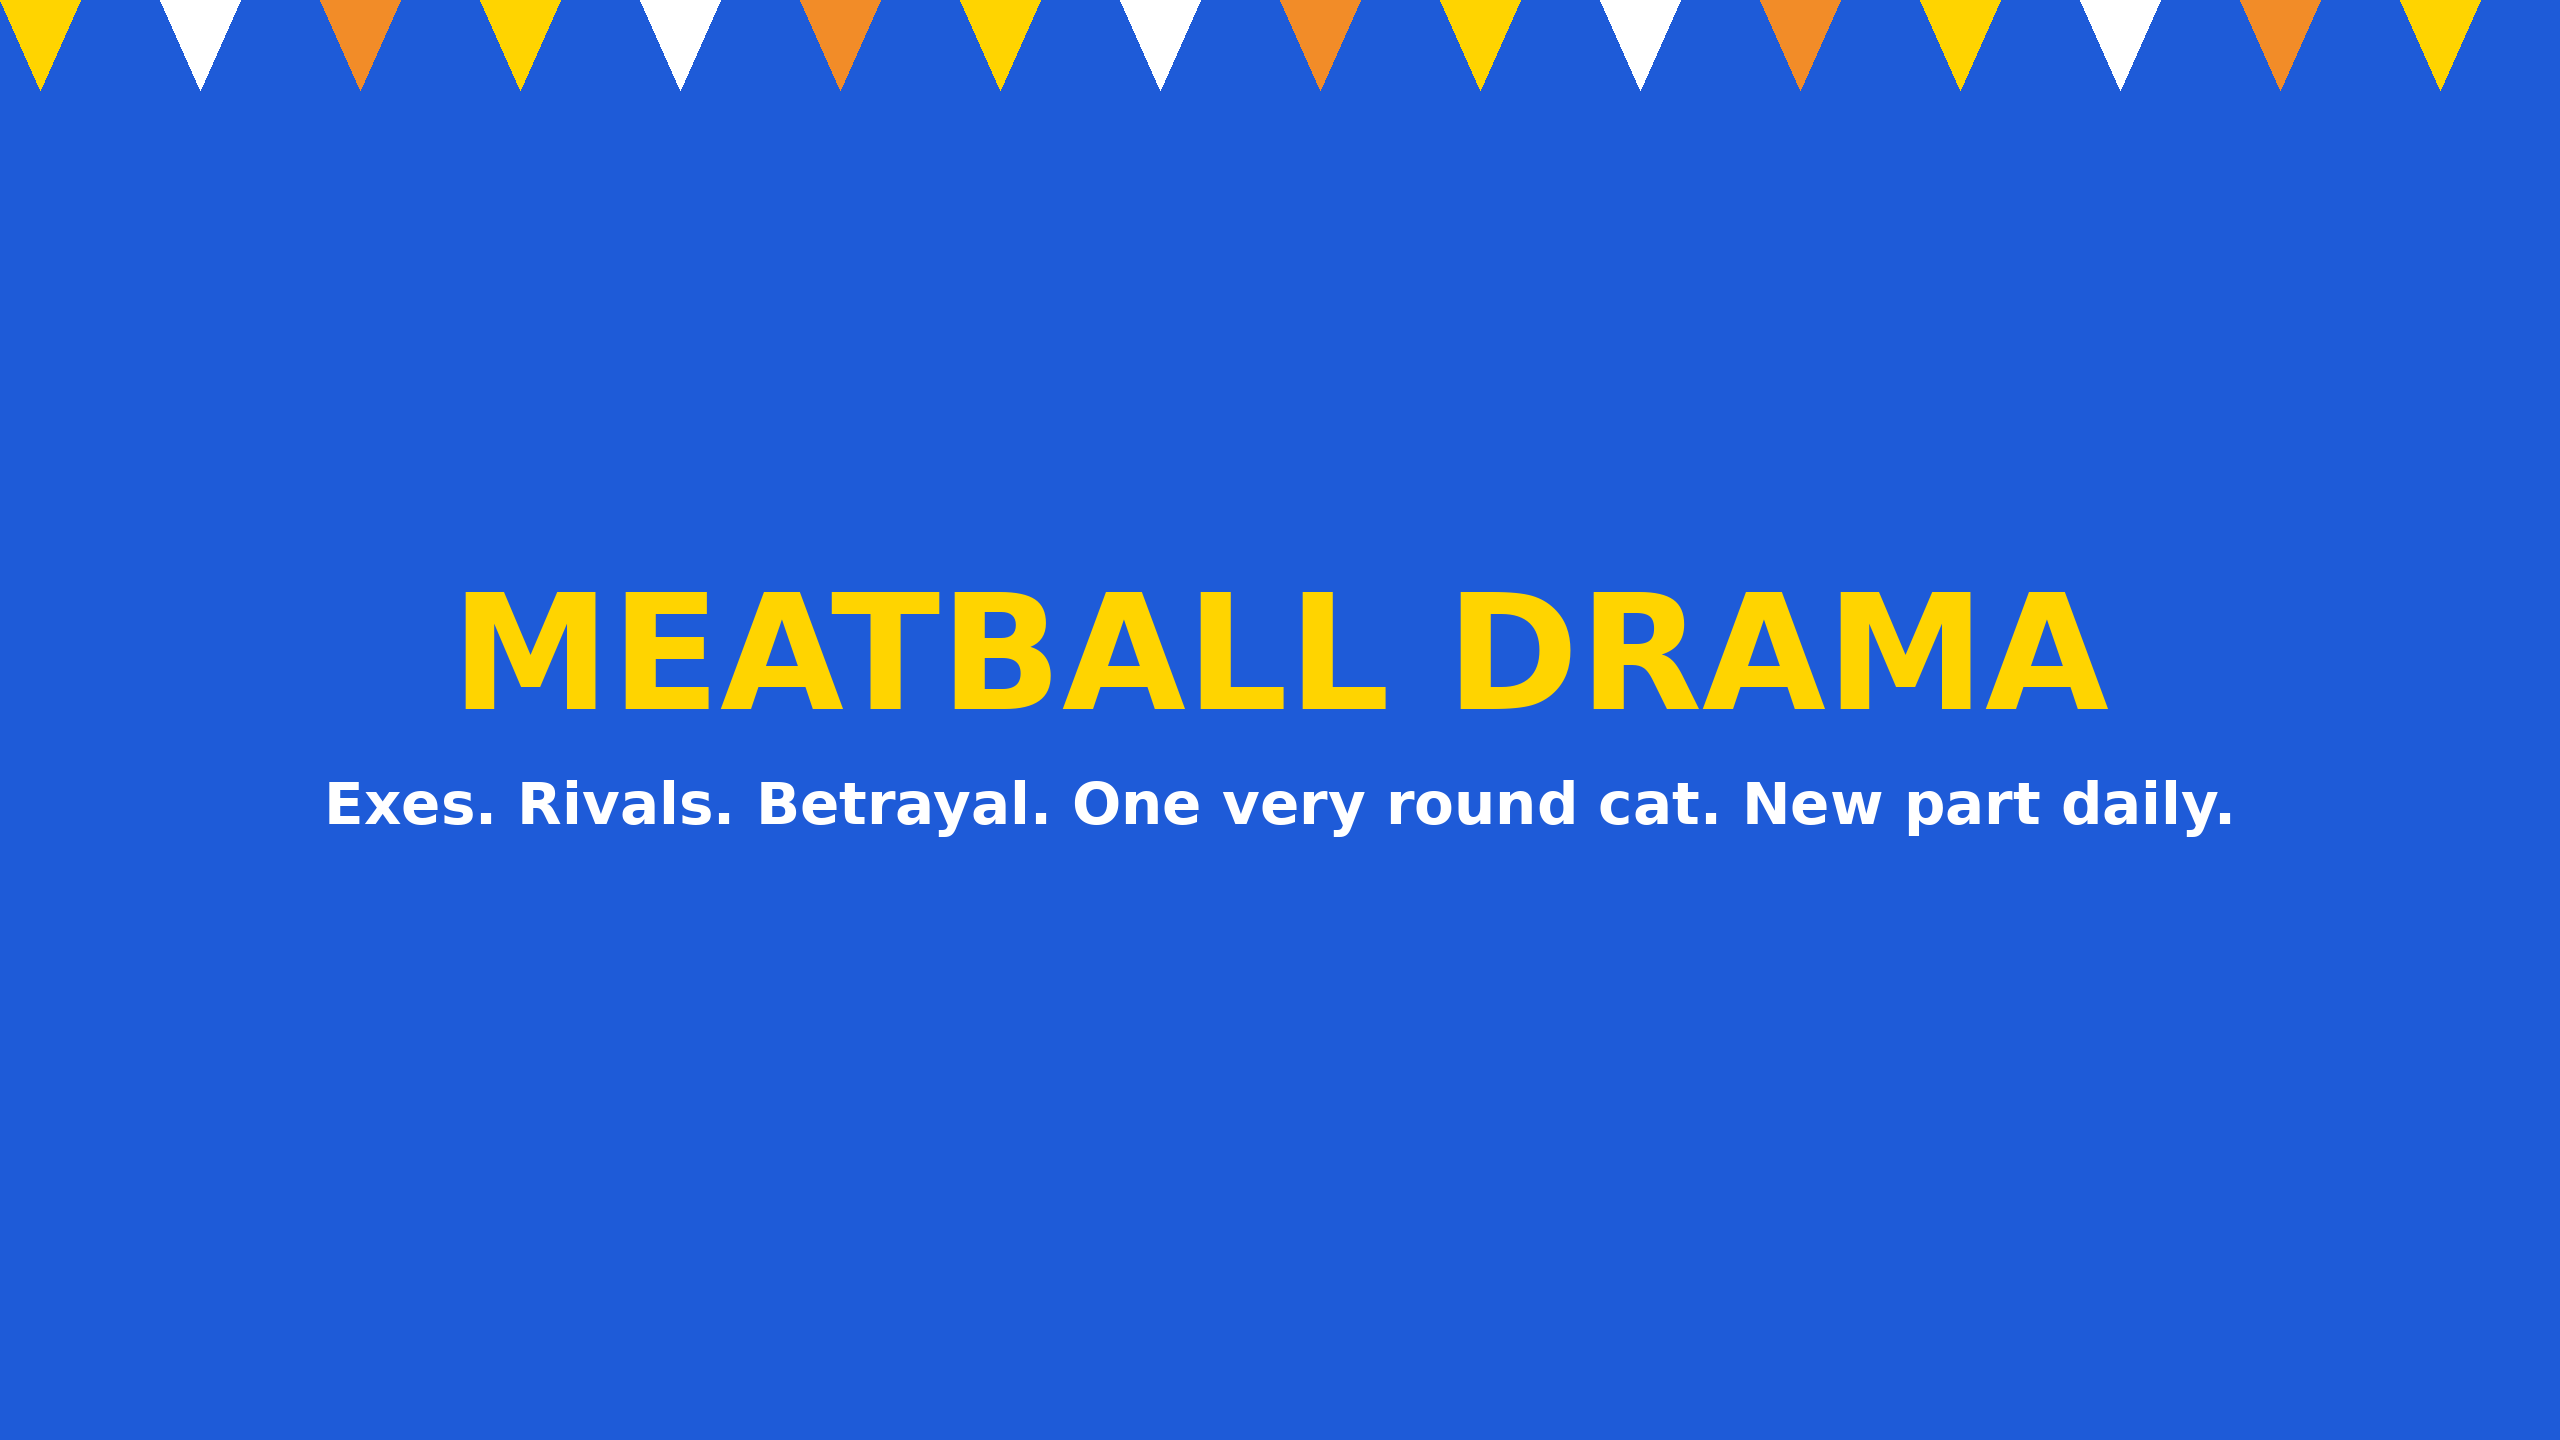
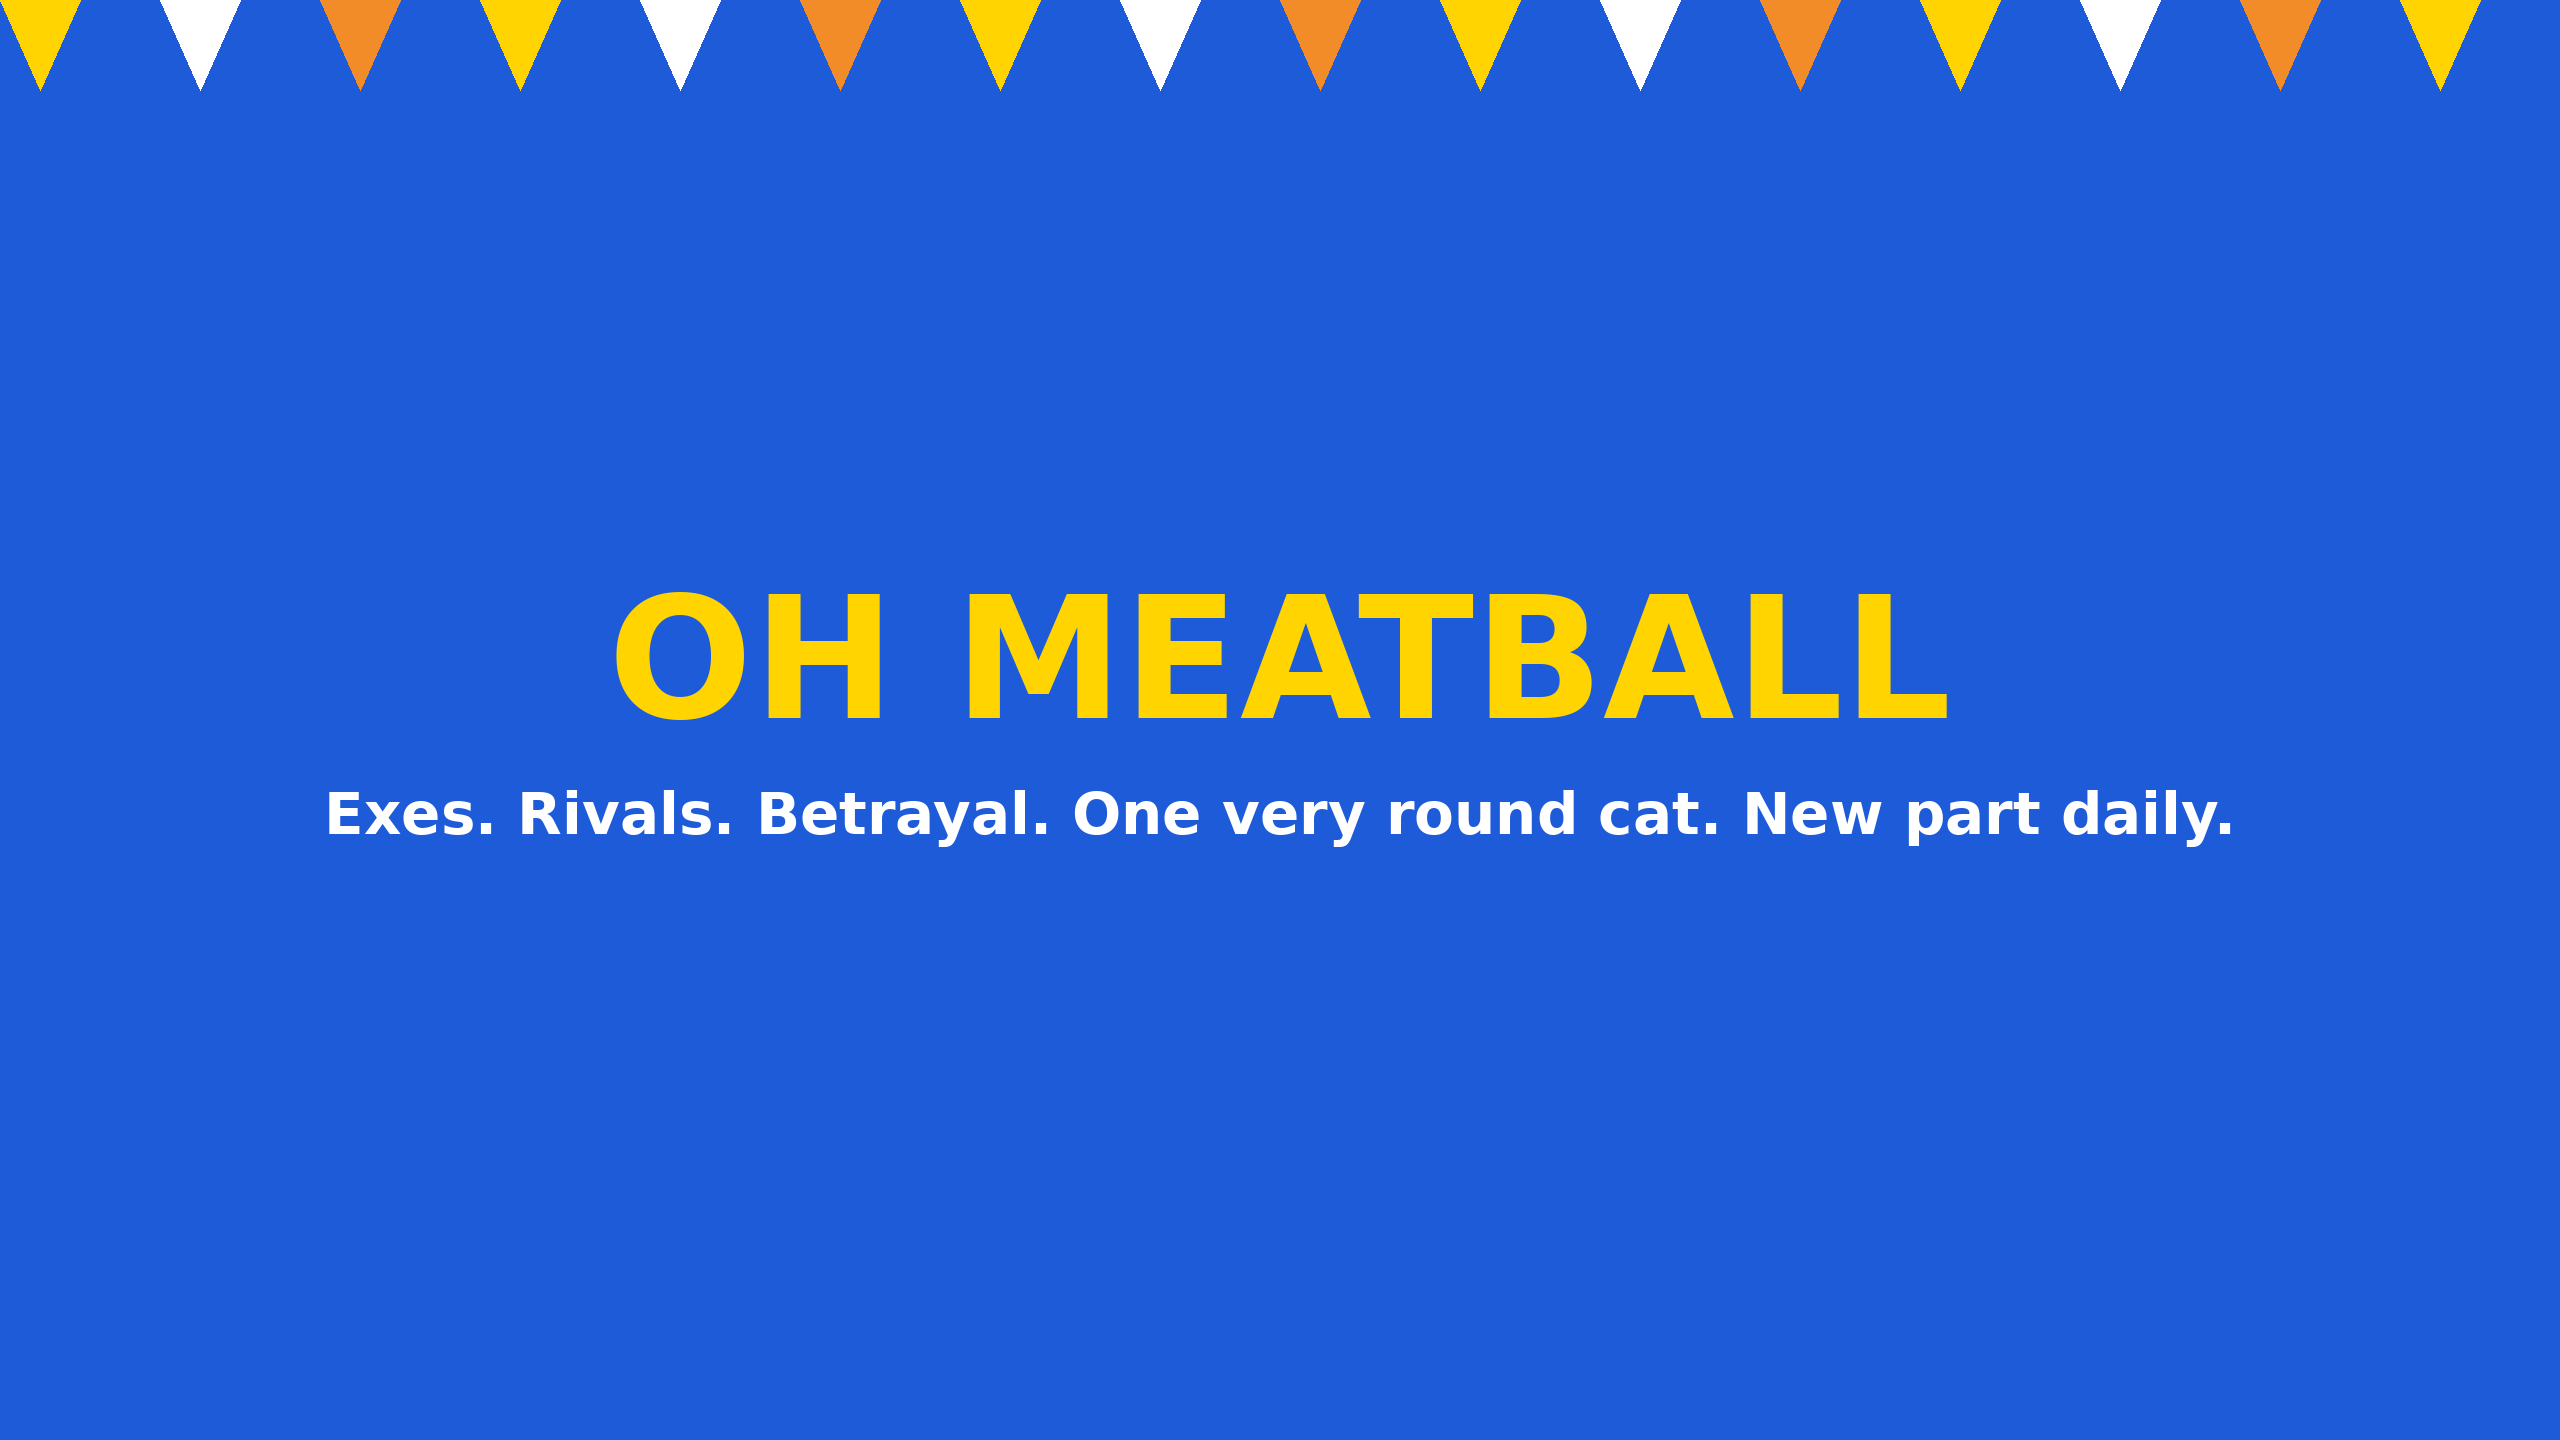
meatball-motors: channel name Oh Meatball (@Oh_meatball)
Claude-Session: https://claude.ai/code/session_01DnmiJXpcAoSmjHEoYSf2YA

Changed region(s): [[0.1562, 0.4062, 0.8438, 0.5], [0.125, 0.5312, 0.875, 0.5938]]

diff --git a/skills/meatball-motors/brand/CHANNEL.md b/skills/meatball-motors/brand/CHANNEL.md
@@ -1,10 +1,10 @@
-# Channel overhaul — "Meatball Drama" (renamed 2026-10-15)
+# Channel overhaul — "Oh Meatball" (renamed 2026-10-15)
 
 1. **Hide old content:** Studio -> Content -> select all -> Edit -> Visibility -> Private.
    (Joe clips + old topics; private keeps them, nothing is deleted.)
 2. **Customization -> Profile:**
-   - Name: `Meatball Drama`
-   - Handle: `@MeatballDrama` (fallback `@OhMeatball`, `@MeatballMayhem`)
+   - Name: `Oh Meatball`
+   - Handle: `@Oh_meatball`
    - Picture: `profile.png` (swap later for a still of Meatball)
    - Banner: `banner.png`
    - Description:
@@ -16,12 +16,12 @@
 # Upload: Part 1
 
 - File: `meatball_motors_part1.mp4` (18.5 s, vertical)
-- Title: `POV: Your ex shows up at your job 💀 | Meatball Drama Pt 1` (vidIQ score 89)
+- Title: `POV: Your ex shows up at your job 💀 | Oh Meatball Pt 1`
 - Description:
   > Duchess is back... and she drove in a red hatchback. 😳
   > Part 2 tomorrow. Follow so you don't miss it.
   > Animated with AI. Written by a real car salesman.
-  > #ai #animation #cat #catdrama #meatballdrama
+  > #ai #animation #cat #catdrama #ohmeatball
 - Audience: Not made for kids (keeps comments on).
 - Altered/synthetic content: No (clearly animated, not realistic) - YouTube does not require it for cartoons.
 - Post time: 5-7 pm ET.

diff --git a/skills/meatball-motors/SKILL.md b/skills/meatball-motors/SKILL.md
@@ -3,7 +3,7 @@ name: meatball-motors
 description: Produce "Meatball Motors", an AI-animated sitcom Shorts series about Meatball, an orange cat who sells used cars. Use to write episodes, generate shots with vidIQ (Veo 3.1), assemble, title, and schedule them, and to review performance.
 ---
 
-# Meatball Drama (channel) — Meatball Motors is the car lot inside the story
+# Oh Meatball (channel, @Oh_meatball) — Meatball Motors is the car lot inside the story
 
 ## Why this format (evidence: skills/bart-clips/research/06-09)
 - Recurring-character AI sitcoms/animal shows are the formats converting views
